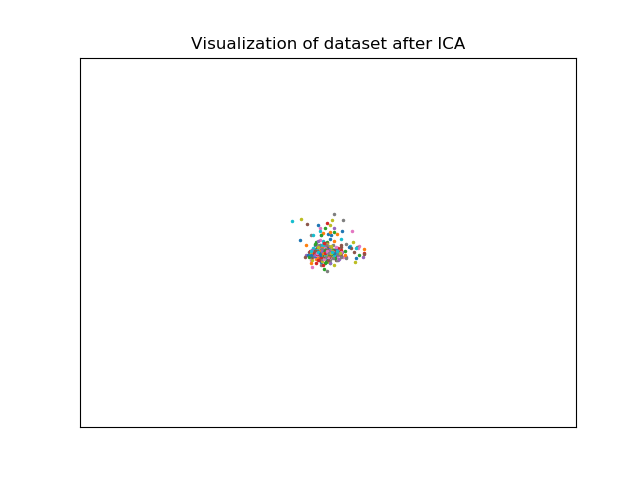
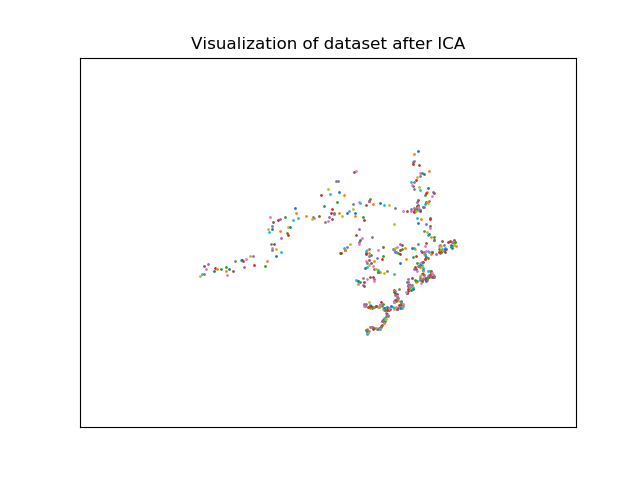
solve scale issue for ICA

diff --git a/visualize.py b/visualize.py
@@ -62,11 +62,11 @@ def visualize_ica():
     min_max_scaler = preprocessing.MinMaxScaler(feature_range=(-1, 1))
     np_scaled = min_max_scaler.fit_transform(data)
     data = pd.DataFrame(np_scaled)
-    reduced_data = FastICA(n_components=9).fit_transform(data)
+    reduced_data = FastICA(n_components=2).fit_transform(data)
 
     # Plot the decision boundary. For that, we will assign a color to each
-    x_min, x_max = reduced_data[:, 0].min() - 1, reduced_data[:, 0].max() + 1
-    y_min, y_max = reduced_data[:, 1].min() - 1, reduced_data[:, 1].max() + 1
+    x_min, x_max = reduced_data[:, 0].min() - 0.1, reduced_data[:, 0].max() + 0.1
+    y_min, y_max = reduced_data[:, 1].min() - 0.1, reduced_data[:, 1].max() + 0.1
 
     fig = plt.figure(1)
     plt.clf()
